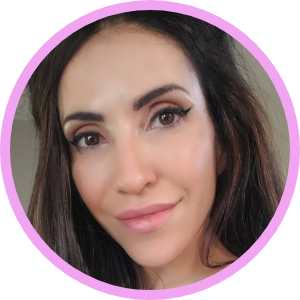
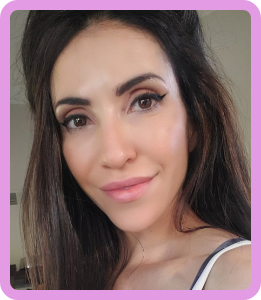
pfp

diff --git a/about.html b/about.html
@@ -45,17 +45,14 @@
       <div class="row center">
         <div class="column col-md-6 col-lg-4">
           <picture class="about me">
-            <svg xmlns="http://www.w3.org/2000/svg" xmlns:xlink="http://www.w3.org/1999/xlink" width="300" height="300" viewBox="0 0 300 300">
+            <svg xmlns="http://www.w3.org/2000/svg" xmlns:xlink="http://www.w3.org/1999/xlink" width="261" height="300" viewBox="0 0 261 300">
               <defs>
-                <pattern id="a" width="1" height="1" viewBox="0 0 300 300">
-                  <image preserveAspectRatio="xMidYMid slice" width="300" height="422.671" xlink:href="../../../../Pictures/ProfilePicture.jpg"/>
+                <pattern id="a" preserveAspectRatio="none" width="100%" height="100%" viewBox="0 0 966 1112">
+                  <image width="966" height="1112" xlink:href="../../../ProfilePicture.jpg"/>
                 </pattern>
-              </defs>
-              <g transform="translate(-2528 -483)">
-                <g transform="translate(2528 483)" stroke="#f1a5f1" stroke-width="10" fill="url(#a)">
-                  <circle cx="150" cy="150" r="150" stroke="none"/>
-                  <circle cx="150" cy="150" r="145" fill="none"/>
-            </g>
+              </defs><g stroke="#e39ce3" stroke-width="10" fill="url(#a)">
+                <rect width="261" height="300" rx="18" stroke="none"/>
+                <rect x="5" y="5" width="251" height="290" rx="13" fill="none"/>
             </g>
             </svg>
           </picture>
